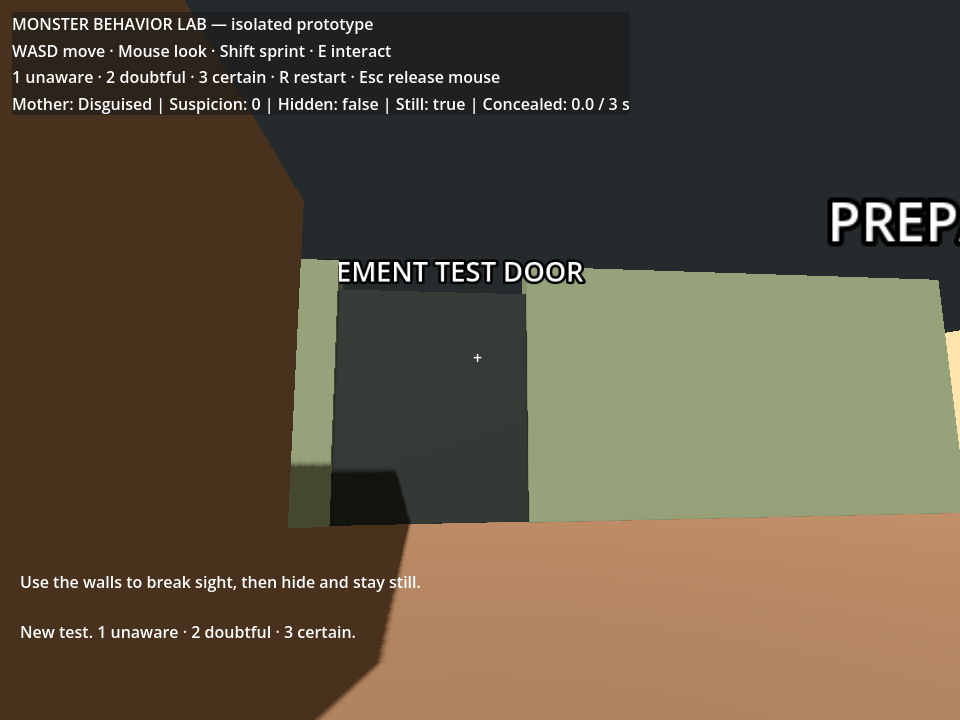
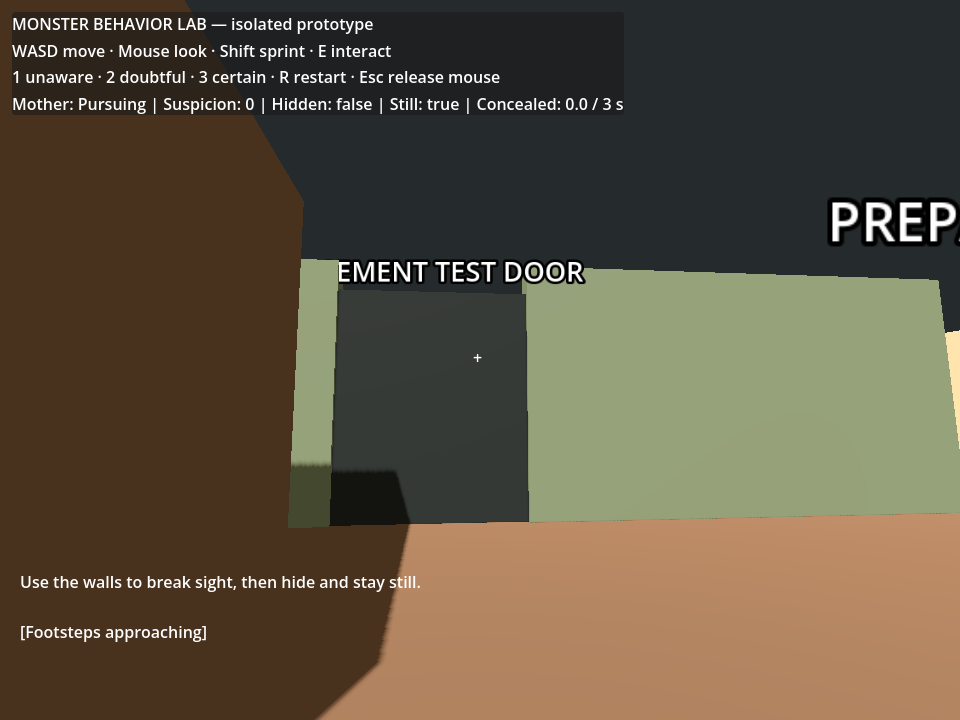
Refine monster performance search and geometry-aware hearing

Changed region(s): [[0.0938, 0.1222, 0.6562, 0.1528], [0.0, 0.8556, 0.375, 0.8861]]

diff --git a/systems/monster/POLISH.md b/systems/monster/POLISH.md
@@ -1,0 +1,46 @@
+# Monster performance and perception refinements
+
+The existing character and walk clip are retained. `threat_motion.gd` layers a
+small forward lean and speed-driven vertical motion on the model while the
+Monster owns it. Searching adds restrained stationary sway; the reveal stays
+still. A post-animation skeleton modifier adds searching head turns, a stalking
+head tilt, chase posture, and a close-encounter arm reach. Routine ownership
+restores the model transform and disables threat bone offsets. This is procedural
+performance, not a new authored run, grab, or door-opening animation.
+
+`MonsterController.heard_alert()` casts through world and door collision layers.
+Each of up to three intersected colliders reduces the alert value; opening a
+door removes its attenuation when its collision is disabled. Floors also block
+the ray. The existing distance limit and falloff still apply. This changes AI
+hearing only; it does not filter the player's sound mix. Values are adjustable
+in `monster_tuning.gd`. It is an approximation of transmission through solids,
+not a simulation of sound travelling around corners.
+
+House integration supplies static room activity points, door positions, and hide
+entrances. Search investigates the last contact first, then reachable nearby
+points on that floor, followed by shuffled local probes. It never reads the
+unseen player's current position to choose those points. An unwitnessed hide
+entrance is a place to approach, not permission to expose its occupant. The
+existing witnessed-hide and three-second concealment rules retain ownership.
+Duplicate points are rejected and blocked search points expire.
+
+## Try it
+
+Press F5, choose New Game, and compare walking/running behind an open and closed
+door. Break sight at a corner and watch her investigate the last contact before
+nearby entrances. Hide out of sight and remain still; then separately try hiding
+in direct view. Check basement interception, a successful capture QTE, and a
+failed QTE/restart. Playtest timing and visual motion remain subjective.
+
+The monster lab supports `-- --verify-monster`; the main gameplay scene supports
+`-- --verify-house`. Tests cover acoustic barriers, last-contact ordering,
+same-floor search selection, blocked-point expiry, and existing behavior rules.
+
+Verified in Godot 4.7.2: rendered monster lab 67 checks and combined headless
+house 161 checks, both with zero failures. Reveal and capture previews were
+inspected. Full human playtesting of chase fairness and animation quality is
+still needed; these checks establish behavior and integration, not final balance.
+
+API reference: [Godot 4.7 SkeletonModifier3D](https://docs.godotengine.org/en/4.7/classes/class_skeletonmodifier3d.html)
+for post-animation pose layering, and [ray queries](https://docs.godotengine.org/en/4.7/classes/class_physicsrayqueryparameters3d.html)
+for geometry-aware hearing.
